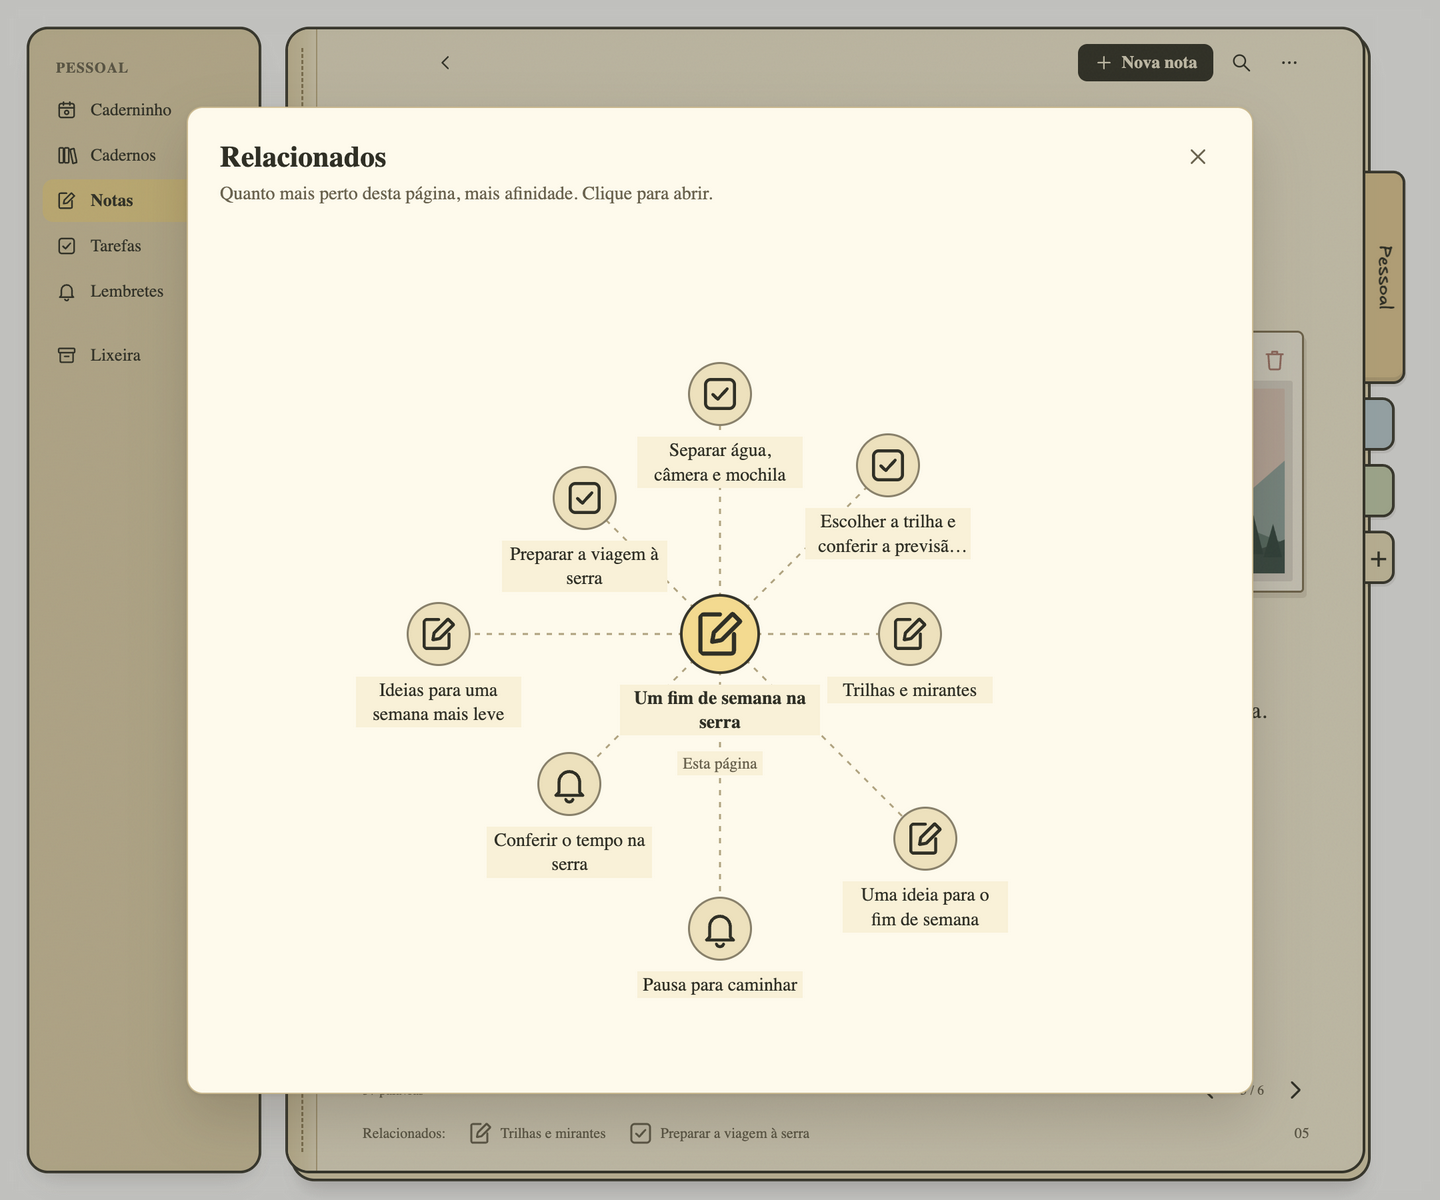
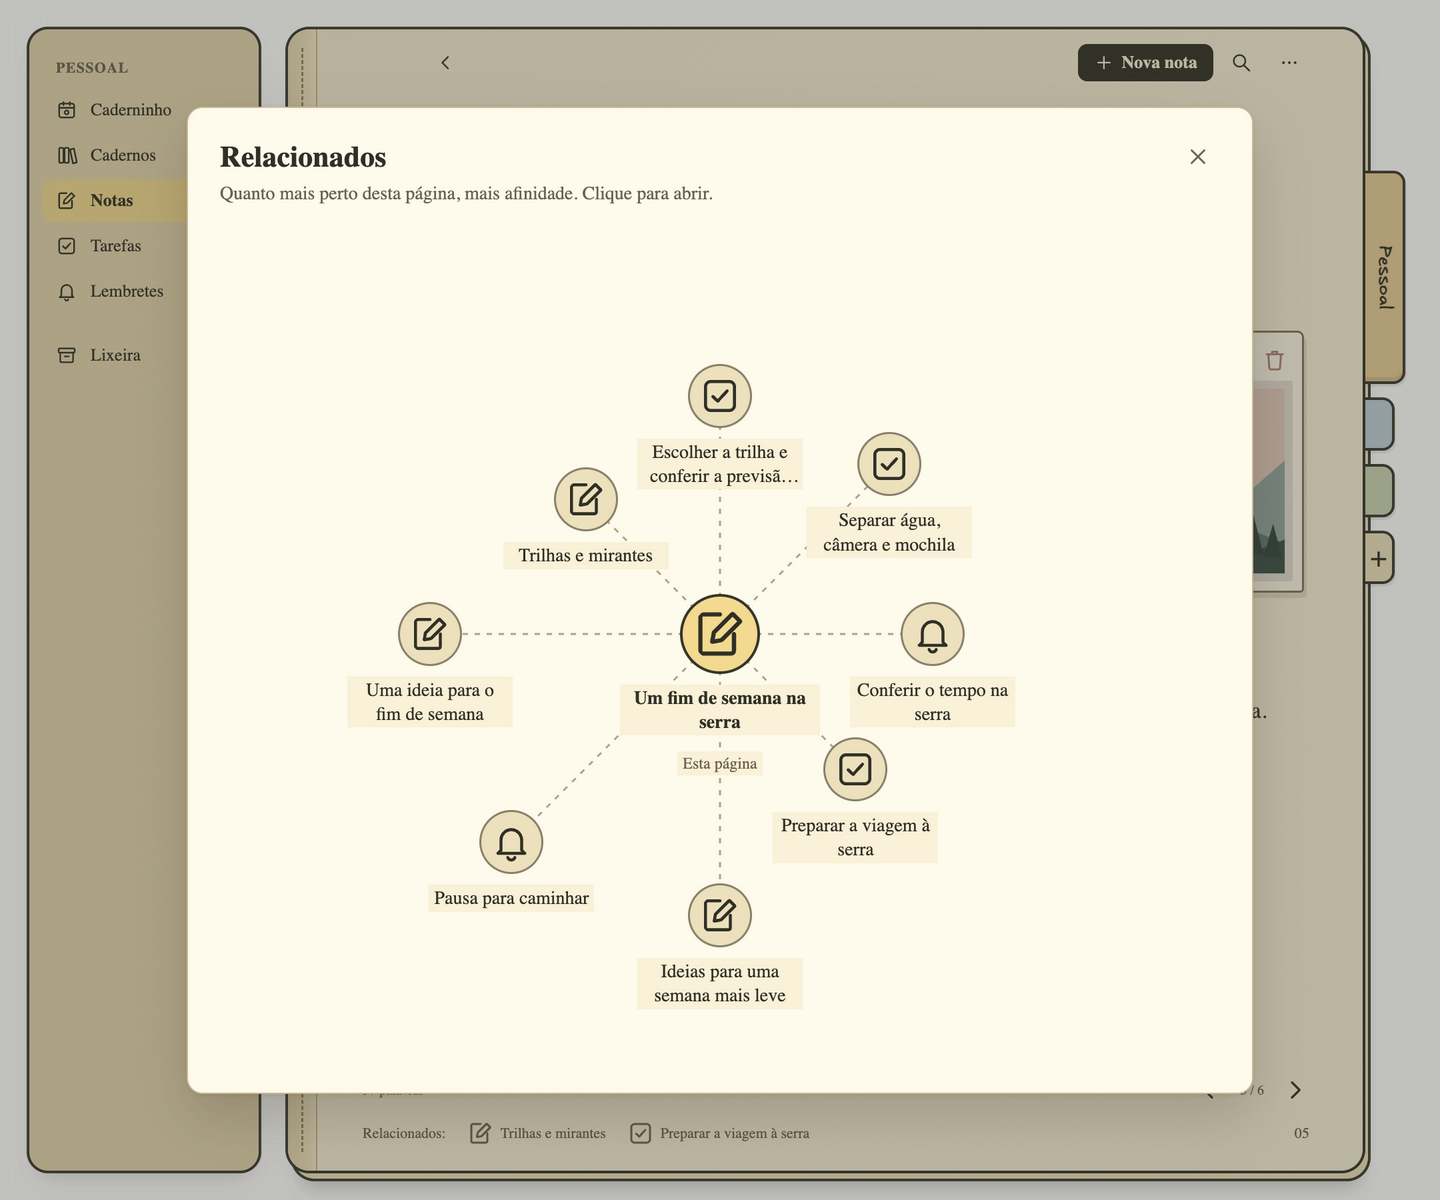
Rewrite README around product differentiators and refresh screenshots
The README now states what sets Caderninho apart (anchored actions, local
related pages, placed references, editable diagrams, daily history, data in
a folder) and its limits, instead of generic copy. Screenshots are
recaptured; a diagram screenshot is added and the search screenshot is
dropped because the results popover currently renders under page content.

diff --git a/README.md b/README.md
@@ -5,74 +5,94 @@
 <h1 align="center">Caderninho</h1>
 
 <p align="center">
-  <strong>A place for your ideas — and for what grows out of them.</strong>
+  A notebook for the Mac where tasks stay attached to the sentence that created them,<br>
+  and related pages are found on your computer, not in the cloud.
 </p>
 
 <p align="center">
-  Write, gather references and turn passages on the page into next steps.<br>
-  Everything stays on your computer, no account required.
-</p>
-
-<p align="center">
-  <a href="#from-note-to-next-step">Meet Caderninho</a> ·
-  <a href="docs/INSTALLATION.md">Installing on Mac</a> ·
+  <a href="docs/INSTALLATION.md">Install on Mac</a> ·
   <a href="docs/USER_GUIDE.md">User guide</a>
 </p>
 
-![A note with tasks and a reminder in the margin, linked to the passages that gave rise to each action](docs/images/acoes-na-nota.png)
+Caderninho keeps notes, task lists and reminders in notebooks, like most note apps. What it does differently:
 
-## From note to next step
+- **Actions anchored to the text.** Select a passage, an image or a link and turn it into a task or a reminder. The passage stays highlighted, and the task always knows where it came from.
+- **Related pages without uploading anything.** A language model and Apple's text recognition run on your Mac and link pages about the same subject, even when they use different words.
+- **References placed on the page.** Images, PDFs and link cards sit beside the paragraph they belong to, and keep working offline.
+- **Diagrams you can edit.** Flowcharts, sequences and mind maps are written as text and drawn in a hand-drawn style inside the note.
+- **A daily page that remembers.** Each day gathers pending tasks, reminders and the latest note; earlier days stay readable as they were.
+- **Your files, in one folder.** No account, no sync, no server. Back up by copying a folder.
 
-An idea becomes a task without leaving the note. Select a passage and create a task or a reminder in the margin. An image or a reference can also give rise to an action.
+The interface is in Portuguese. Caderninho runs on macOS.
 
-The passage stays highlighted on the page, and the action keeps the way back to its origin. You know **what to do and why it matters**, even when you pick the subject up again days later.
+![A note with tasks and a reminder in the margin, each linked to the highlighted passage it came from](docs/images/acoes-na-nota.png)
 
-Tasks go to the Daily page and reminders to the calendar. Complete them, reschedule them or go back to the note that started it all.
+## Tasks that remember why they exist
 
-## Ideas that find other ideas
+In most apps, writing "ask for two quotes" in a note and adding it to a to-do list are two separate things. Copy it over, and the list loses the context.
 
-Caderninho brings together pages about similar subjects, even when you use different words. Notes, lists and reminders in the same notebook can connect; text inside images also helps find these relationships.
+In Caderninho, you select the passage and create a **task** or a **reminder** from it. The action goes to the note's margin with a copy of the passage, and the passage gets a dashed highlight that turns green when the task is done. Images and link cards can also originate actions.
 
-![Connections between the trip note, trail references, a packing list and a reminder](docs/images/relacionados.png)
+- Tasks appear in **Tarefas** and on the daily page; reminders appear in the calendar and play an alert at the scheduled time.
+- **Ver origem** (View origin) opens the note and highlights the passage.
+- A note can have several tasks and several independent alerts.
+- If you rewrite or delete the passage later, the action keeps the copy and the margin tells you it no longer finds the original.
 
-In the footer, the closest pages come first. In the graph, they sit closer to the center. Click one of them and continue wherever that idea takes you.
+Dates written in Portuguese, such as `amanhã às 14h` or `05/10/2027 às 14:30`, get a **Agendar** (Schedule) stamp. Nothing is scheduled until you click it.
 
-Connections follow your changes and are found on your computer, without sending page content to the cloud.
+## Related pages, computed locally
 
-## References with a place on the page
+After each save, Caderninho compares the page with the other notes, lists and reminders in the same notebook. It combines three signals: shared categories, shared words and the meaning of the text, which comes from a multilingual embedding model running on your CPU. Text inside images, read by the macOS Vision framework, also counts.
 
-A landscape, an itinerary, an inspiration: paste or drag images and links next to what you are writing. Position the clippings and write around them, as in a paper notebook.
+![Graph of pages related to a trip note: a packing list, a trail note, a weather reminder and other notes](docs/images/relacionados.png)
 
-![Landscape and reference card arranged alongside notes about a trip](docs/images/colagem.png)
+The two closest pages appear at the bottom of the note. The graph (**⌥⌘R**) puts the current page in the center and closer pages nearer to it; click one to open it. No text or image leaves your computer. The model is downloaded once, on first use; after that, it works offline.
 
-The reference stays with the idea it sparked. And when something to do comes up from it, the action can live there too.
+## References next to the idea
 
-## The day has its own page
+Paste or drag an image, a PDF or a link into a note. Drag it beside the paragraph it belongs to, on the left or right, and resize it; the text flows around it.
 
-At the top, pick up the latest note in the notebook; when it connects to other pages, the linked ideas appear beside it in a graph. Right below, tasks from your lists and from note margins meet reminders and recent pages. You follow your day without opening each project to find out what is still pending.
+![Trip note with a landscape image on the right and a link card on the left, with text flowing around them](docs/images/colagem.png)
 
-![Daily page with the latest note beside its connection graph, followed by tasks and reminders](docs/images/pagina-do-dia.png)
+- Files are copied into the app, so you can delete or move the original.
+- PDFs show their title and first lines, extracted on your Mac; **Abrir PDF** opens the saved copy.
+- Link cards save the page title, description and image once, and keep showing them offline. Caderninho reads the page metadata without running its scripts.
 
-Tomorrow, today's page remains available for reference. The snapshot of that moment's tasks, reminders and notes is kept.
+## Diagrams as text
 
-## A notebook for each subject
+Type `/diagrama` to insert a flowchart, sequence, mind map or timeline. You write the [Mermaid](https://mermaid.js.org) code, the drawing updates as you type, and errors keep the last valid drawing on screen. The diagram is stored as text in the note, so search finds its words and PDF export prints it. Everything renders locally.
 
-Separate projects, studies and personal life into notebooks, with colored tabs to switch between them. Categories run across the pages of each notebook: start typing a hashtag and find the ones you already use.
+![A note with a hand-drawn flowchart of a trip plan](docs/images/diagrama.png)
 
-The magnifying glass at the top finds pages by title or content across all notebooks, from any section. Each result shows an excerpt and its source notebook; click to resume the page.
+## A daily page with history
 
-![Search for "serra" gathering notes, a packing list and a reminder, with excerpts and source notebook](docs/images/busca.png)
+**Caderninho**, the first screen, shows the notebook's most recently edited note, its related pages, pending tasks from every list and note margin, and today's reminders.
 
-Want to take a page with you? Export it to PDF and keep or share your notes, references and actions on the same paper background.
+![Daily page with the latest note beside its related pages graph, followed by tasks and reminders](docs/images/pagina-do-dia.png)
 
-## Your notebook stays with you
+The next day starts a new page. Previous days stay available in the date picker, read-only, as a record of what was pending, done and scheduled on that day.
 
-No account and no cloud sync. Your pages and images stay on your computer; you can write and look up what you saved without internet.
+## Your data, in a folder
 
-A link preview queries the site you point to. Connections between pages need an initial download to start working; after that, they are also available offline.
+Notes, lists, reminders and categories live in a SQLite database; images and PDFs live next to it, in a media folder:
 
-See how to install it in the [Mac guide](docs/INSTALLATION.md) and learn the details in the [user guide](docs/USER_GUIDE.md).
+```text
+~/Library/Application Support/caderninho/
+```
+
+There is no account and no cloud sync. To back up, close the app and copy that folder. Any page can be exported to PDF (**⇧⌘E**) with its formatting, tables, images, diagrams and linked actions.
+
+The only network requests are the ones you trigger: fetching a link preview from the site you pasted, and the one-time model download for related pages.
+
+## Limits to know
+
+- macOS only, interface in Portuguese.
+- Reminders play only while the app is open (it can be minimized). If an alert was missed while the app was closed or the Mac was asleep, it plays when the app comes back.
+- No sync between computers and no mobile version.
+- Related pages are found within the same notebook, not across notebooks.
 
 ---
 
-The images show the real app with fictional examples.
+[Install on Mac](docs/INSTALLATION.md) · [User guide](docs/USER_GUIDE.md)
+
+The screenshots show the real app with fictional examples.
